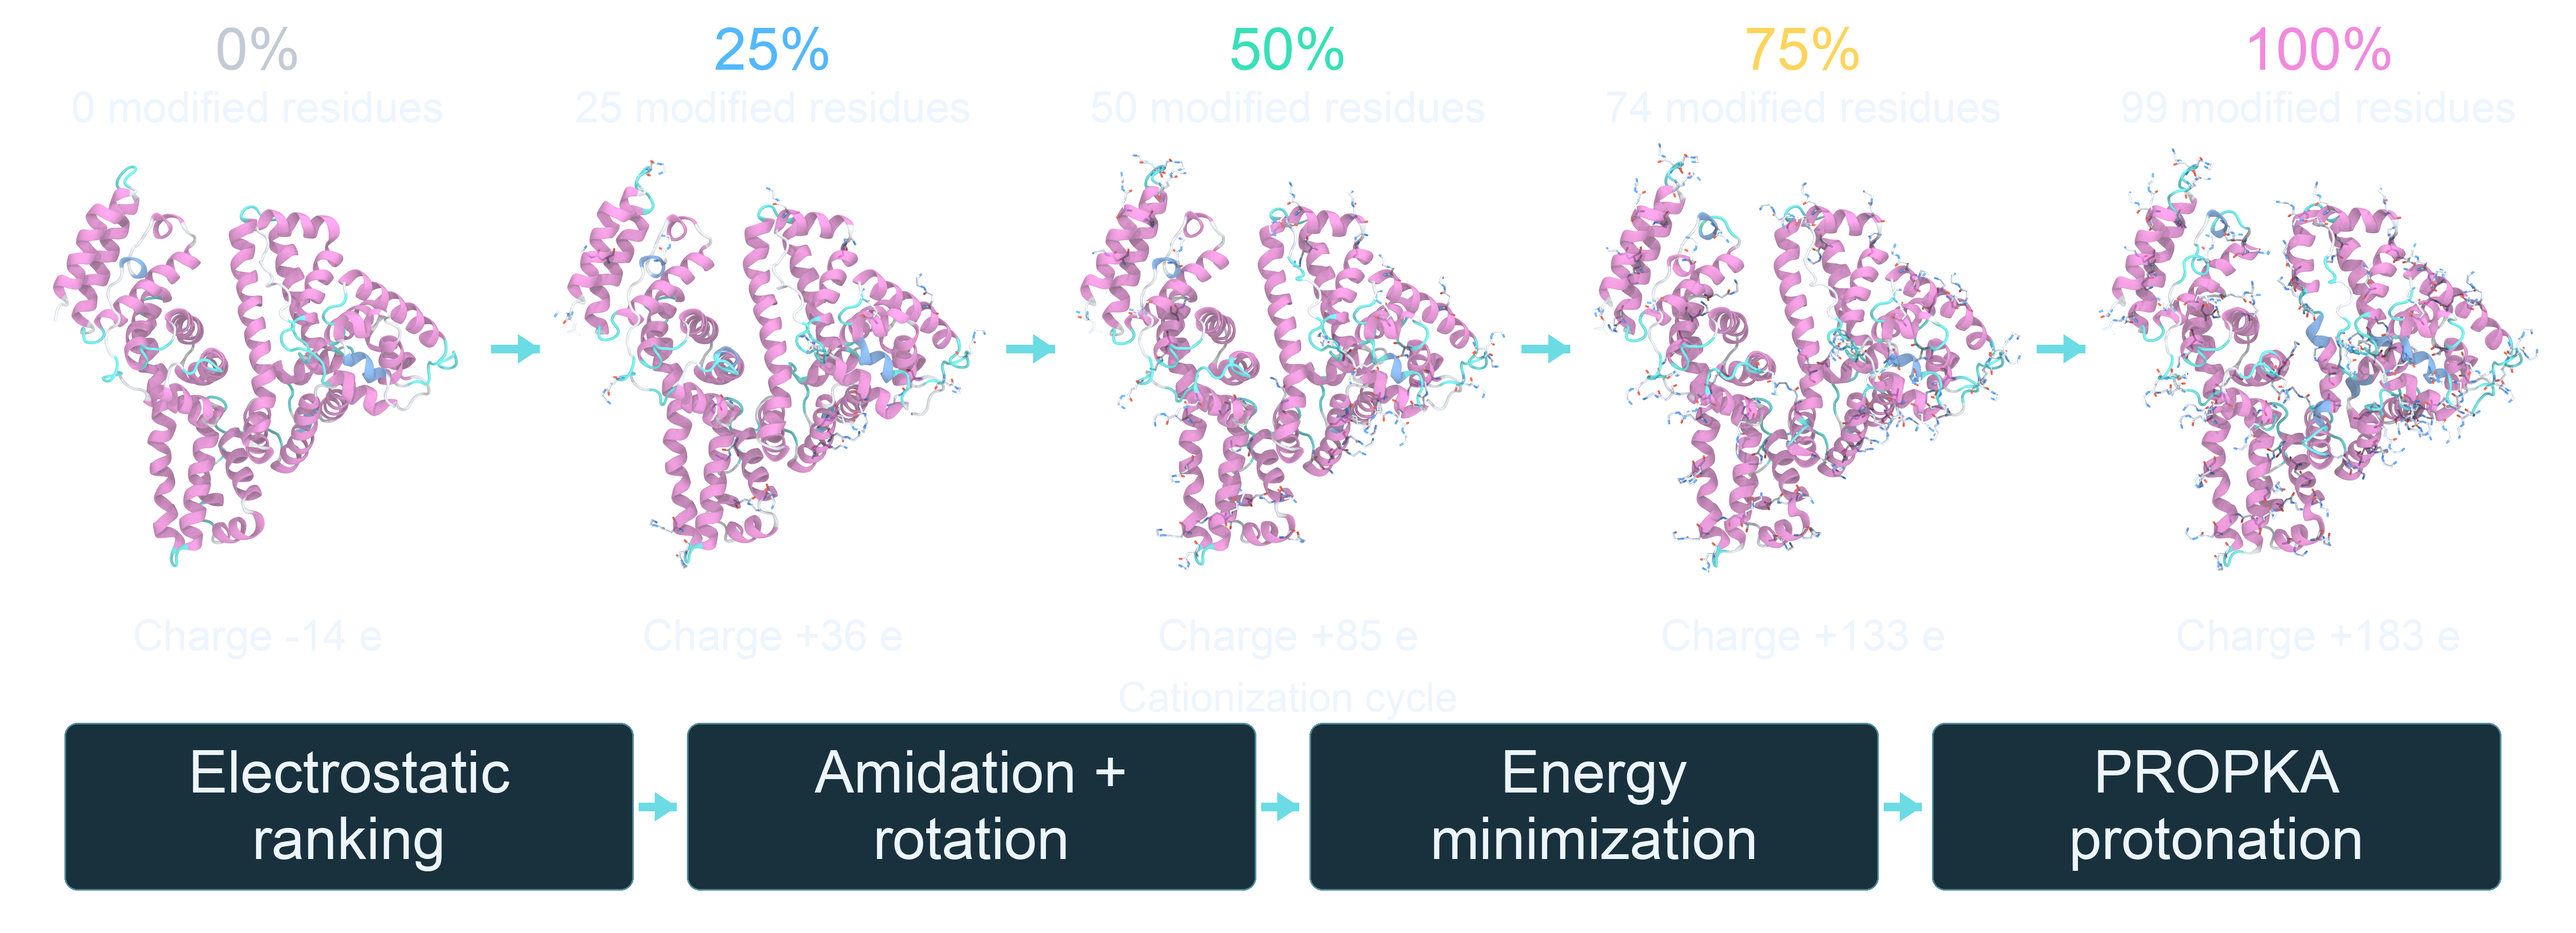
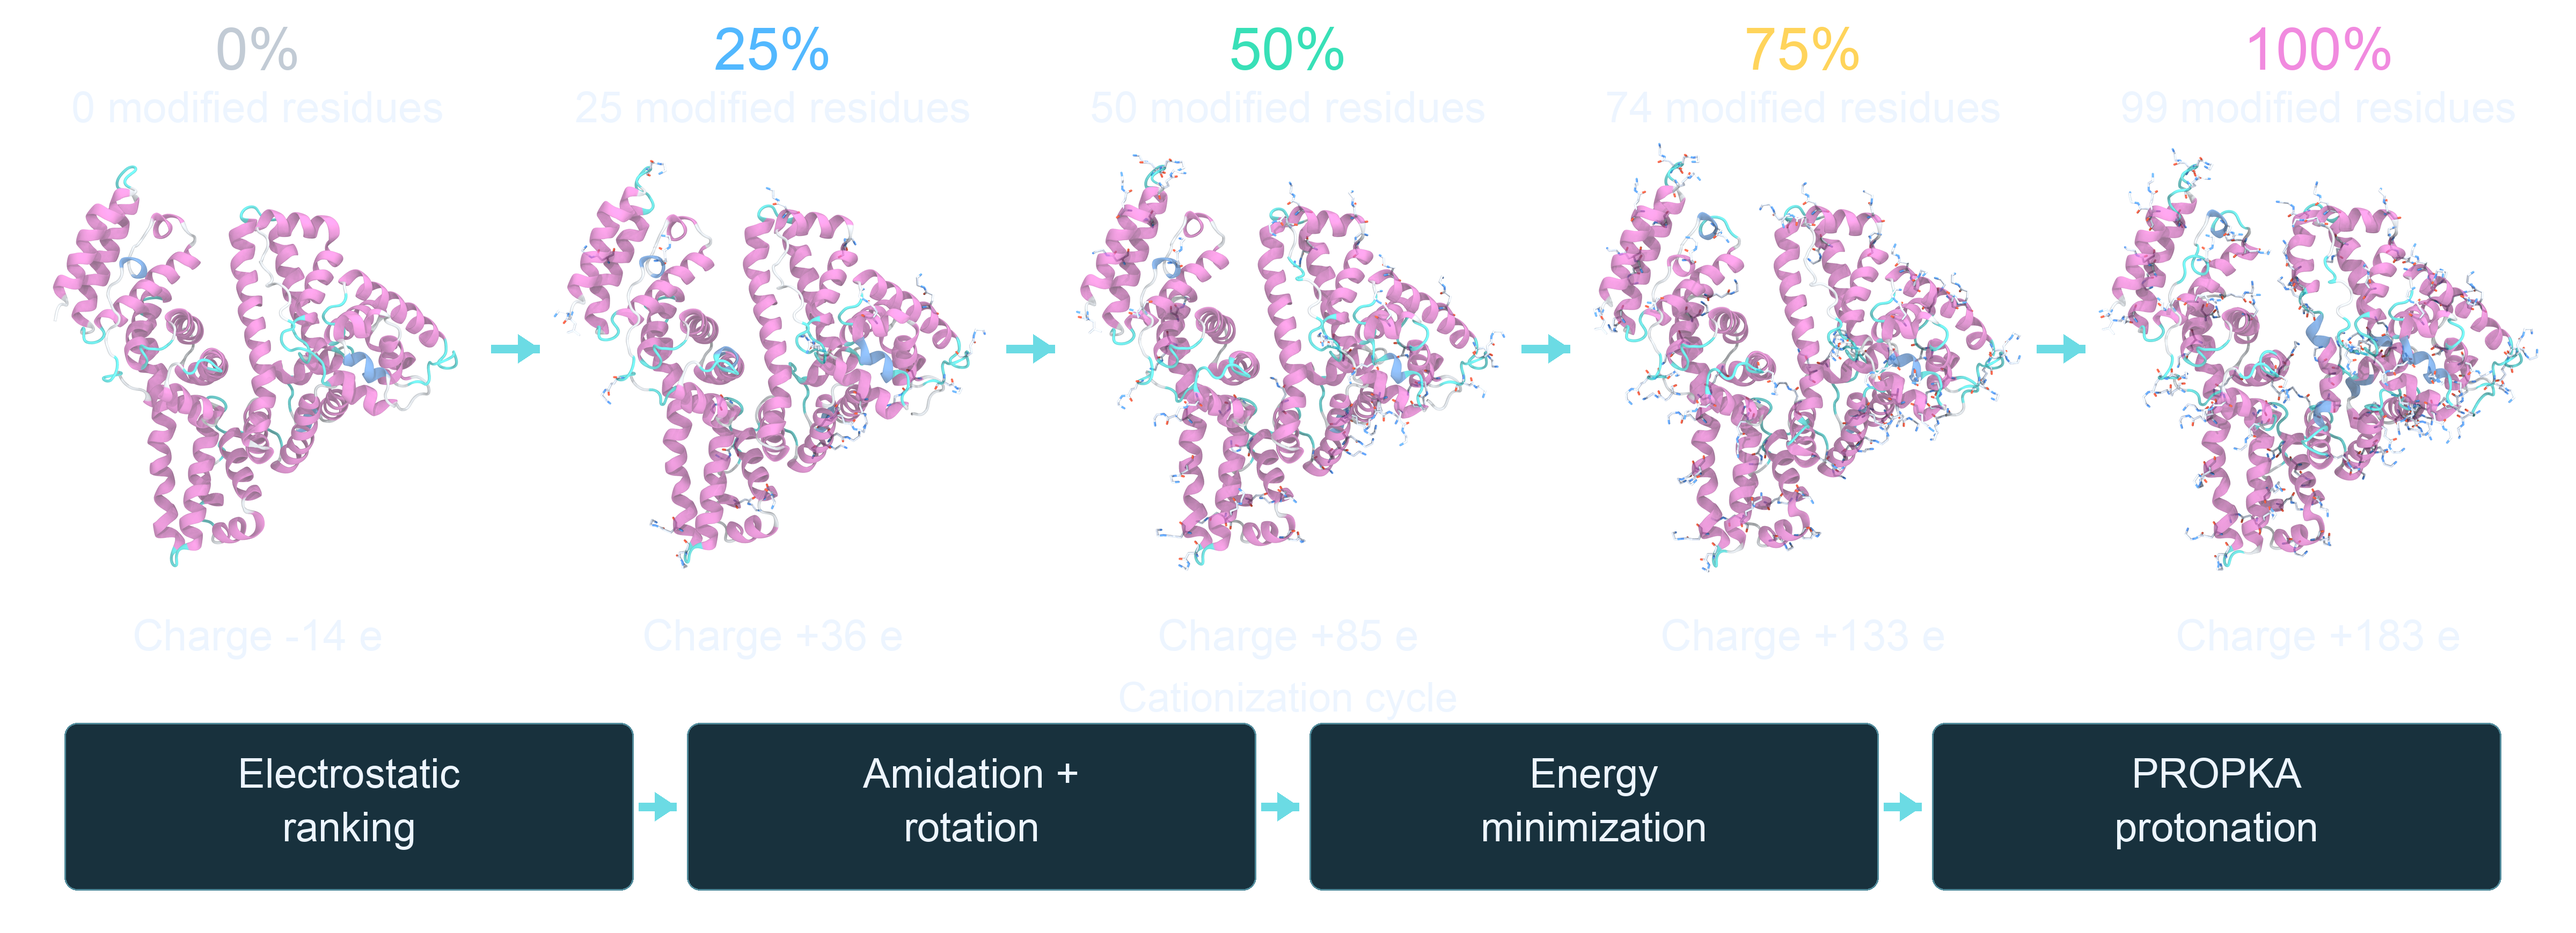
Resize cycle labels

diff --git a/docs/VALIDATION.md b/docs/VALIDATION.md
@@ -211,6 +211,8 @@ versions. AOChalky is retained, and
 Each theme has five downloadable PNGs at the genuine 3840 × 2160 render grid. Tachyon uses
 24 antialiasing samples and the recorded lighting/transparency settings.
 Both 4800 × 1740 workflows use native-resolution crops and downsampling only.
+Cycle labels use 76 px text, matched to the cycle heading; the existing
+percentage, residue-count and charge labels retain their sizes.
 Its alpha comes from independent geometry-transmittance passes that retain
 the actual representation opacities. White molecular features are preserved.
 The completed workflow was inspected on white and dark backgrounds. The
